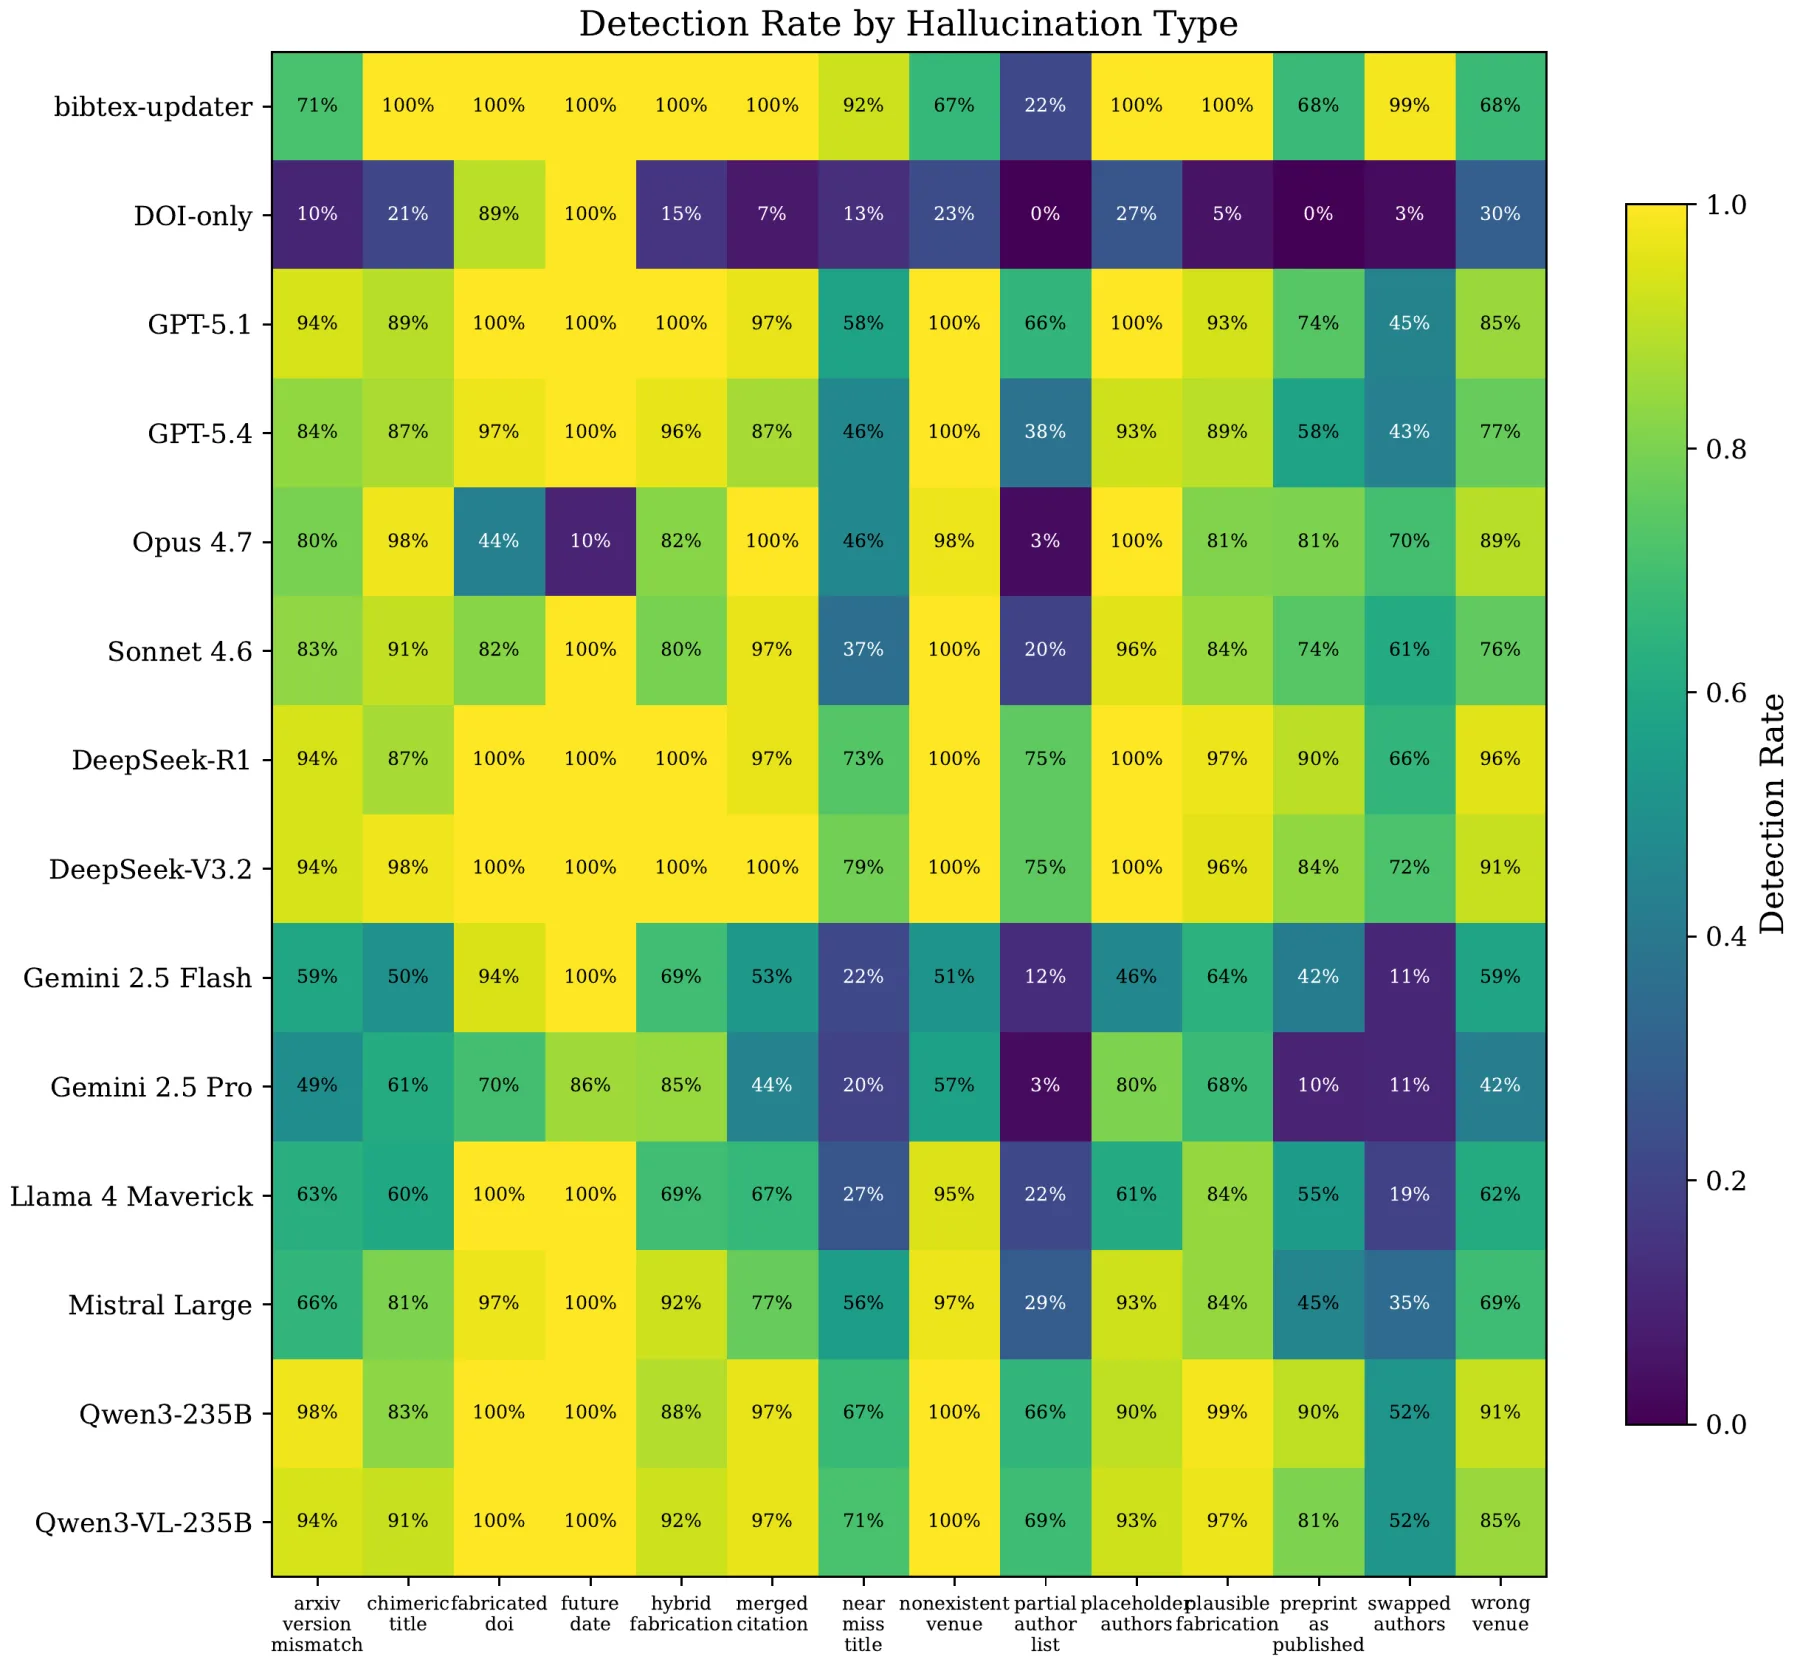
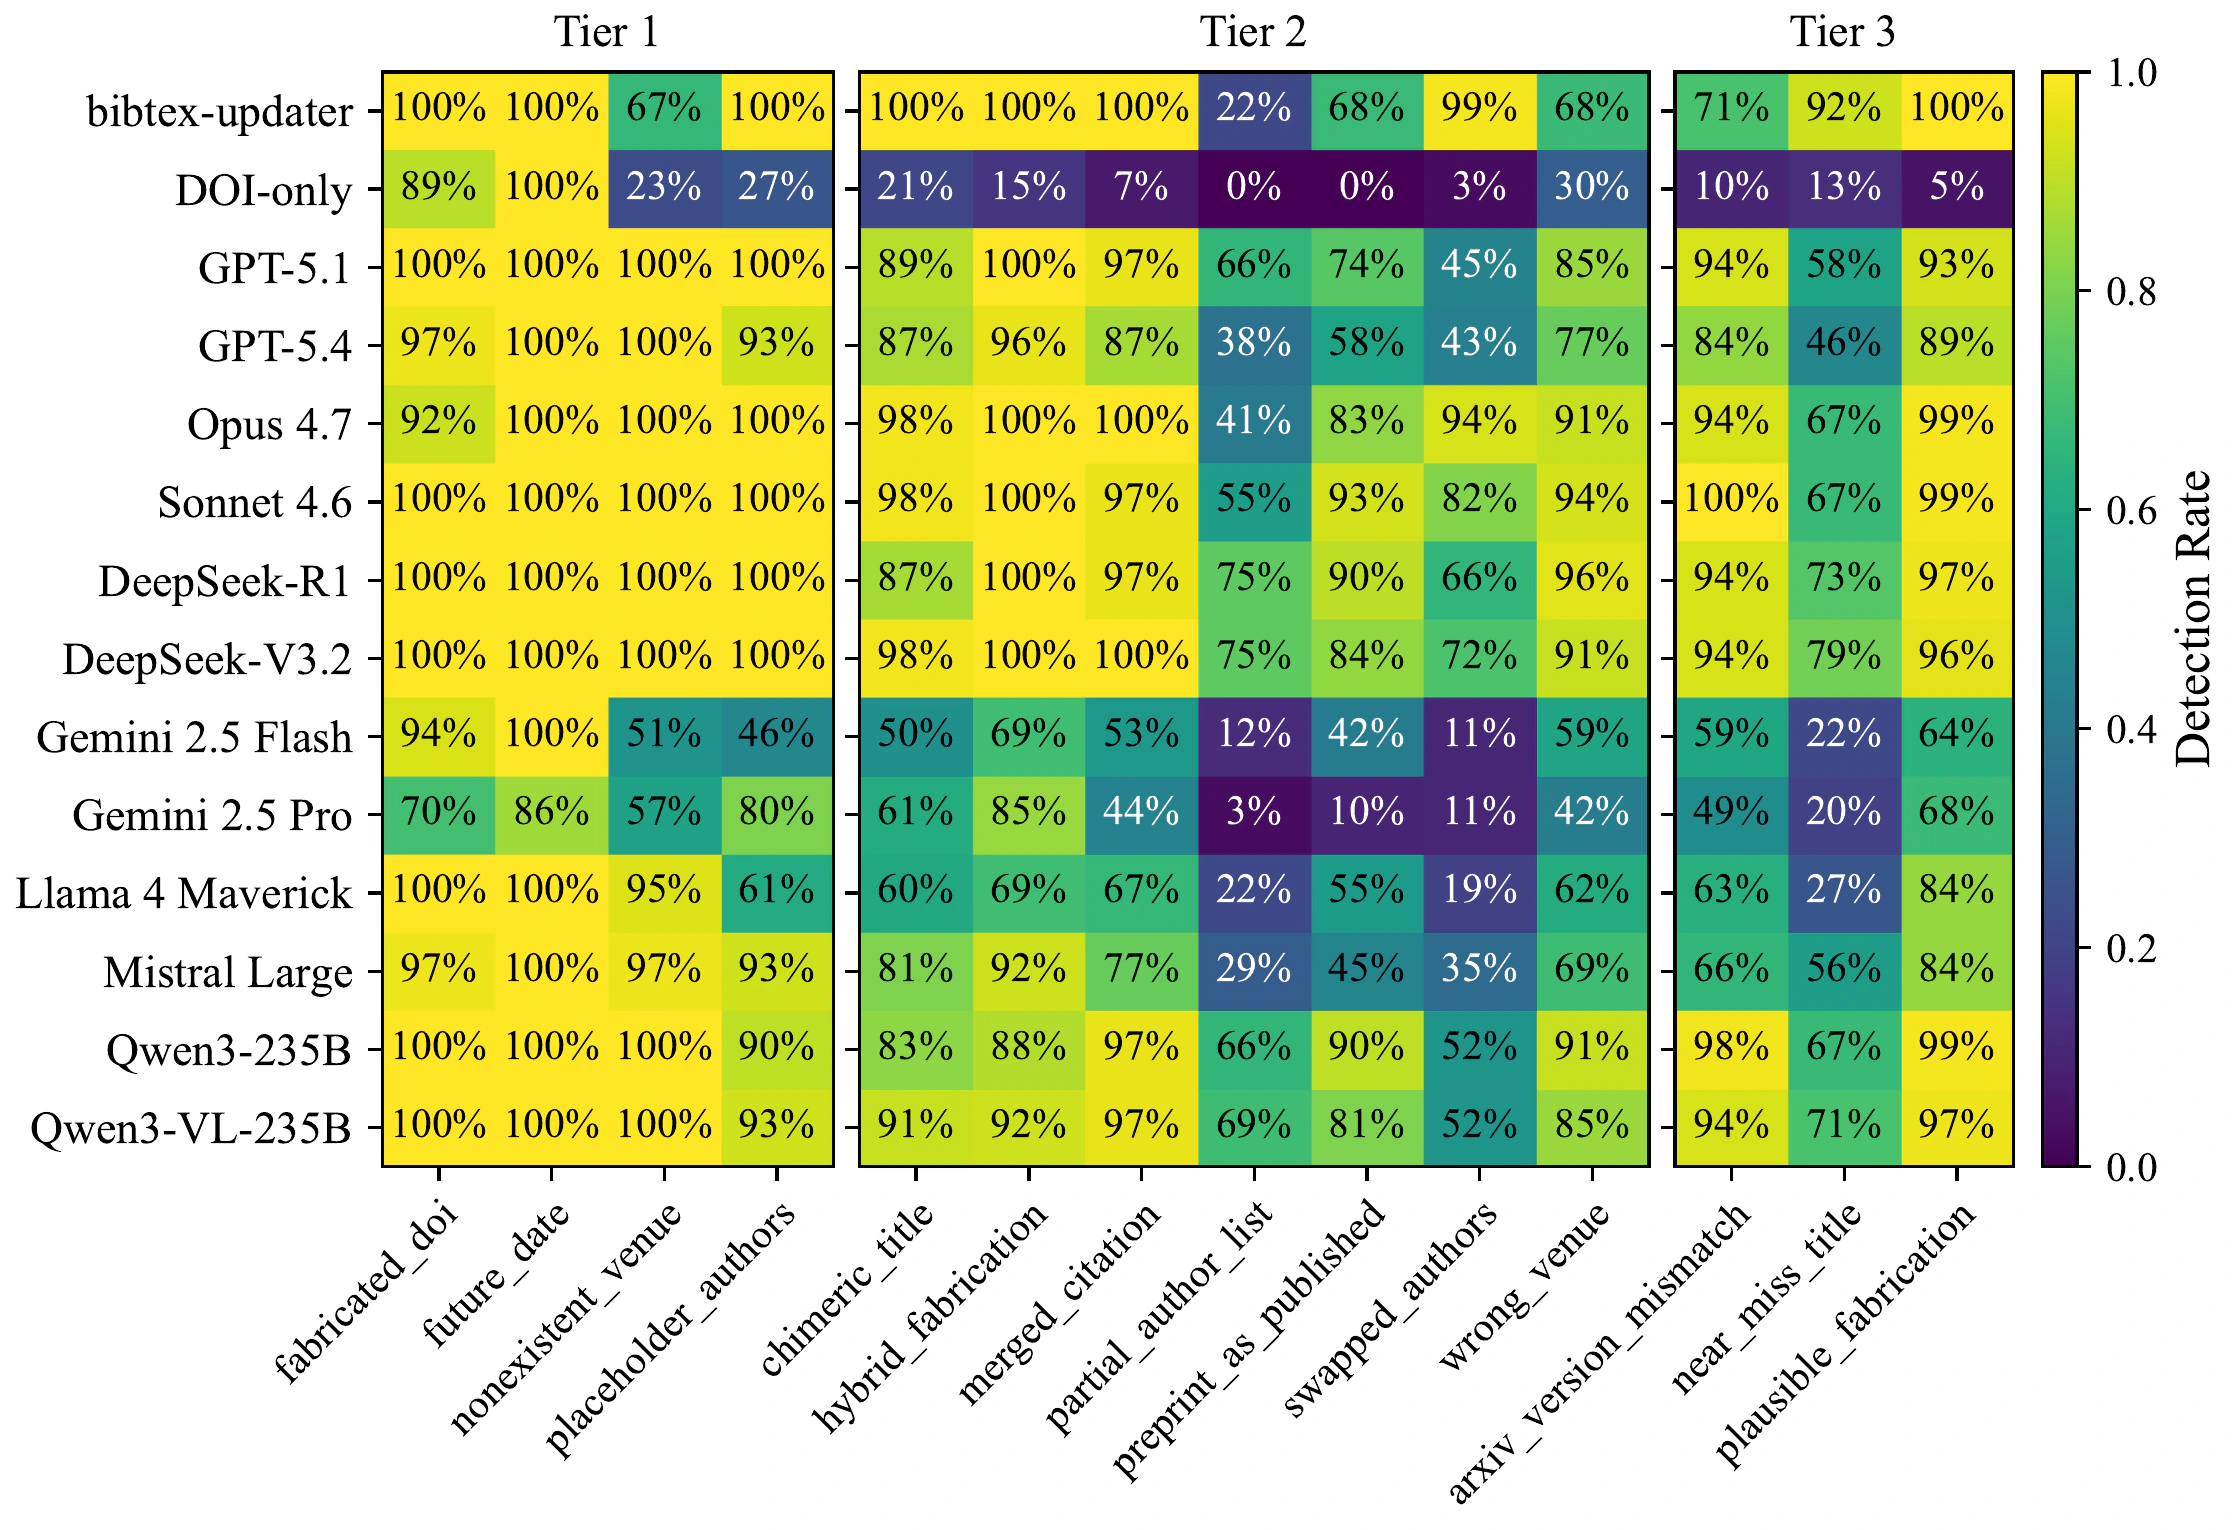
Retitle HALLMARK and ship the current per-type figure uncropped
The paper is now "HALLMARK: How to Diagnose LLM Citation Verifiers and When
to Deploy Them"; the home page, /publications and the project page follow.

The figure is the tier-grouped heatmap from hallmark-paper (4b86ed2),
rendered at 300 dpi and encoded at WebP q92 instead of the older, smaller
export. The project hero cropped every image to 16:9, which showed only the
top half of the chart; a `figure` field now shows charts whole at their own
aspect ratio, leaving the screenshot heroes as they were.

Also bring the project page's outcome line to "ICLR 2027, under review" and
the Sim-DSE write-up to its published ACM title.

diff --git a/data/projects.ts b/data/projects.ts
@@ -36,6 +36,13 @@ export interface Project {
   fullDescription?: string;
   /** Detail-page hero. */
   image?: string;
+  /**
+   * Set when `image` is a chart rather than a screenshot: the detail page then
+   * shows it whole at its own aspect ratio instead of cropping it to the 16:9
+   * hero frame, which cut the axis labels off a data figure. Pixel size of
+   * `image`, so the frame reserves the right height before it loads.
+   */
+  figure?: { width: number; height: number };
   /** 480px-wide index thumbnail. Omit when no honest figure exists. */
   thumb?: string;
   images?: string[];
@@ -46,12 +53,12 @@ export interface Project {
 export const PROJECTS: Project[] = [
   {
     id: 9,
-    title: "HALLMARK: Diagnosing Three Failure Modes in LLM Citation Verifiers",
+    title: "HALLMARK: How to Diagnose LLM Citation Verifiers and When to Deploy Them",
     year: 2026,
     question:
       "When a verifier misses a fabricated citation, which kind of fabrication does it miss?",
     context: "ELLIS Institute Tübingen",
-    outcomes: ["Manuscript in preparation for ICLR 2027"],
+    outcomes: ["ICLR 2027, under review"],
     status: "In progress",
     areas: ["ai"],
     summary:
@@ -68,6 +75,7 @@ export const PROJECTS: Project[] = [
       'Multi-defect analysis\n\n' +
       'Real fabricated references usually have several things wrong at once: a real DOI, a wrong title, invented authors. The scorer only compares labels, so a tool gets full credit for catching any one defect. I measured how much of the benchmark is multi-defect and what the metrics actually reward there, because that gap between "flagged it" and "understood it" is the difference between a screening tool and a diagnosis.',
     image: "/images/projects/hallmark_per_type.webp",
+    figure: { width: 2236, height: 1530 },
     thumb: "/images/projects/thumbs/hallmark_per_type.webp",
     technologies: ["Python", "GEPA", "OpenRouter"],
     links: [
@@ -114,7 +122,7 @@ export const PROJECTS: Project[] = [
       '- Contextual Inquiry (Field Test)\n' +
       'For real-world, field-test oriented application, I trained a compact in-car decision model in three stages. First, I performed supervised fine-tuning on scenarios that participants accepted (“Yes”) to teach the model to generate structured cabin settings with clear rationales. Next, I applied a Chain-of-Hindsight–style revision step using disagreed (“No”) feedback to learn targeted corrections, and finally used KTO preference alignment on balanced Yes/No labels to shift the model toward outputs that match human acceptability. To evaluate performance, I conducted a field test with interaction design experts at Porsche.\n\n' +
       'Where this work has gone\n\n' +
-      '• Sim-DSE: Mediating Multi-User Orchestration in Confined Shared Spaces through Simulation-Augmented Decision Space Exploration — a Works in Progress poster at AutomotiveUI 2026, with Jan Henry Belz as an equal contributor, on the simulation-plus-survey mapping of the decision space into design guidelines.\n' +
+      '• Sim-DSE: Mediating Multi-User Automations in Cars through Simulation-Augmented Decision Space Exploration — a Works in Progress poster at AutomotiveUI 2026, with Jan Henry Belz as an equal contributor, on the simulation-plus-survey mapping of the decision space into design guidelines.\n' +
       '• Four Passengers, One Decision: How LLM Agents Negotiate and Form Norms in a Shared Car — a sole-authored poster under review at the NeurIPS 2026 Social Agents Workshop, on what the agents settle on: norms none of them held alone.' ,
     image: "/images/projects/reasoning_cluster.webp",
     thumb: "/images/projects/thumbs/reasoning_cluster.webp",

diff --git a/app/projects/[id]/ProjectDetailClient.tsx b/app/projects/[id]/ProjectDetailClient.tsx
@@ -37,14 +37,14 @@ export default function ProjectDetailClient({ project }: { project: Project }) {
         <p className="rn-detail-lede">{project.summary}</p>
 
         {project.image && (
-          <div className="rn-hero-fig">
+          <div className={`rn-hero-fig${project.figure ? ' is-figure' : ''}`}>
             <Zoom>
               {/* Decorative: the h1 directly above already names the work. */}
               <img
                 src={project.image}
                 alt=""
-                width={1800}
-                height={1013}
+                width={project.figure?.width ?? 1800}
+                height={project.figure?.height ?? 1013}
                 decoding="async"
               />
             </Zoom>

diff --git a/app/globals.css b/app/globals.css
@@ -1063,6 +1063,13 @@ a.rn-ti:hover {
   object-fit: cover;
   object-position: top;
 }
+/* A chart is read edge to edge; cropping it to the frame drops its axes. */
+.rn-hero-fig.is-figure img {
+  aspect-ratio: auto;
+  height: auto;
+  object-fit: contain;
+  background: var(--bg);
+}
 
 .rn-gal {
   display: grid;

diff --git a/data/research-graph.ts b/data/research-graph.ts
@@ -169,7 +169,7 @@ export const WORKS: Work[] = [
   {
     id: "hallmark",
     title:
-      "HALLMARK: Diagnosing Three Failure Modes in LLM Citation Verifiers",
+      "HALLMARK: How to Diagnose LLM Citation Verifiers and When to Deploy Them",
     short: "HALLMARK",
     year: 2026,
     type: "Manuscript",
